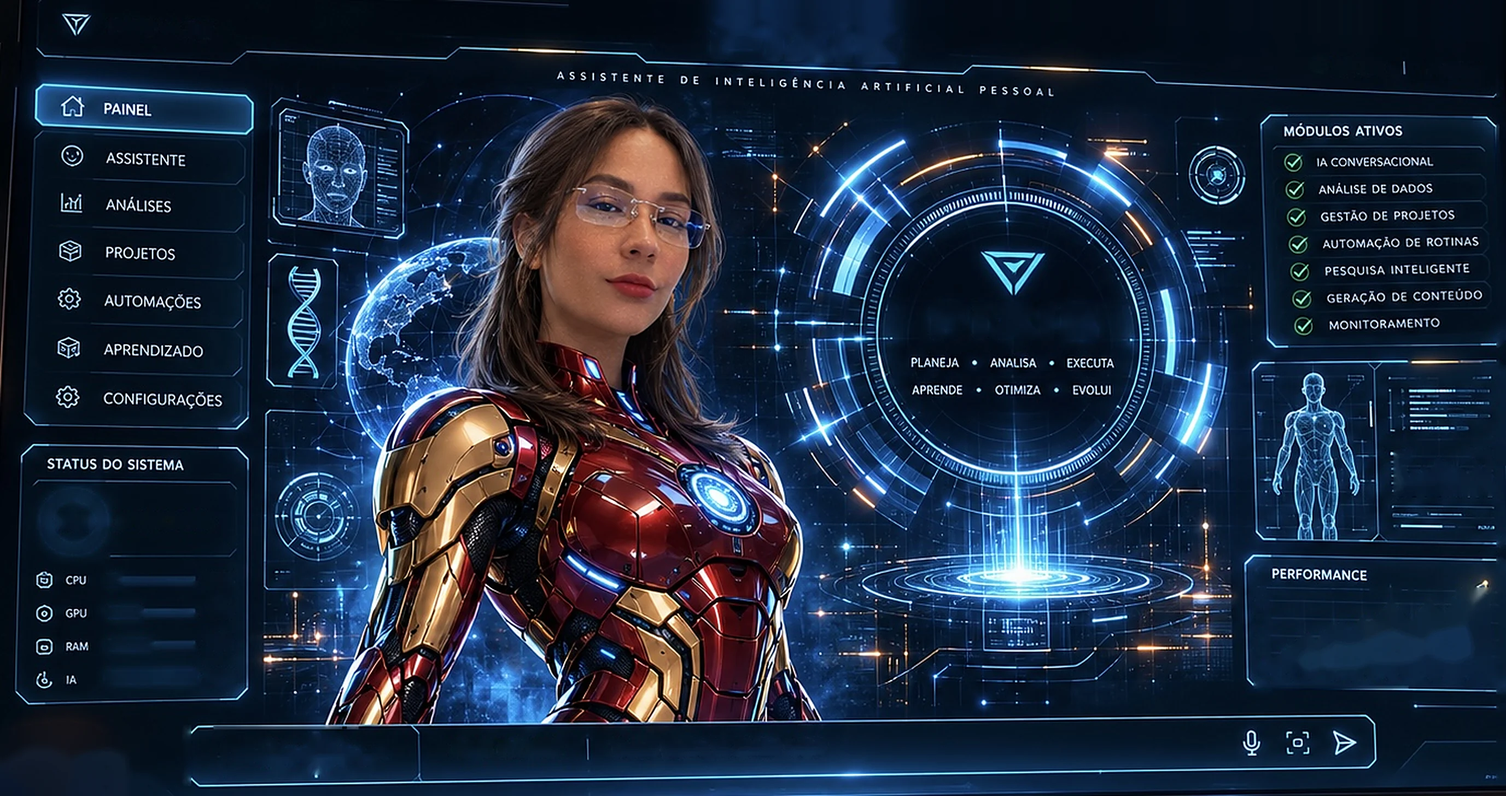
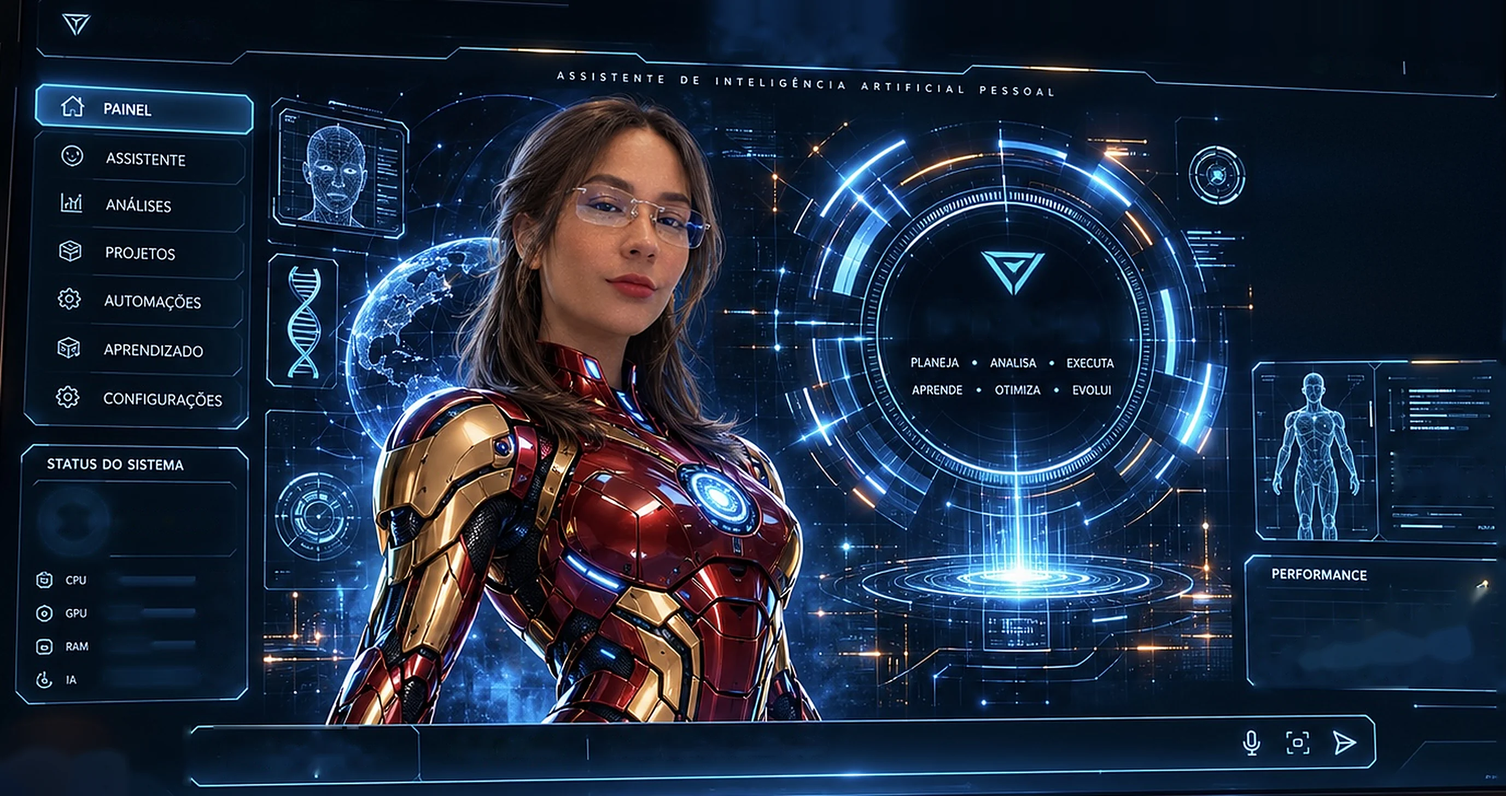
Evora Web: remove a caixa de Módulos ativos do canto superior direito
Claude-Session: https://claude.ai/code/session_01RtkD6pVsX9jumxM7LSjZw8

Changed region(s): [[0.8431, 0.1236, 0.9993, 0.4636]]

diff --git a/web/app.js b/web/app.js
@@ -1204,27 +1204,7 @@ const fx = (() => {
     glowDot(657, 452, 30 + lvl * 26, "120,220,255", Math.min(0.85, core));
     glowDot(657, 452, 12 + lvl * 8, "235,252,255", Math.min(0.9, core * 0.9));
 
-    // ── módulos ativos acendendo conforme o que a Evora está fazendo
     searchFlash = Math.max(0, searchFlash - dt * 0.35);
-    const active = [
-      speaking || thinking, thinking, false, typeof loopActive === "function" && loopActive(),
-      searchFlash > 0.02, speaking, listening,
-    ];
-    const rows = [148, 172, 196, 222, 247, 272, 296];
-    rows.forEach((y, i) => {
-      const cx = 1183 + i * 1.6;
-      const on = active[i];
-      const pulse = 0.5 + 0.5 * Math.sin(t * 5 + i);
-      if (on) {
-        const g = ctx.createLinearGradient(P(1170), 0, P(1362), 0);
-        g.addColorStop(0, `rgba(80,255,160,${0.07 + pulse * 0.06})`);
-        g.addColorStop(1, "rgba(80,255,160,0)");
-        ctx.fillStyle = g; ctx.fillRect(P(1170), P(y - 10), P(192), P(20));
-        glowDot(cx, y, 13, "90,255,160", 0.3 + pulse * 0.25);
-      } else {
-        glowDot(cx, y, 9, "90,255,160", 0.08 + 0.05 * Math.sin(t * 1.3 + i * 0.9));
-      }
-    });
 
     // ── poeira de luz pela tela toda
     for (const d of dust) {
